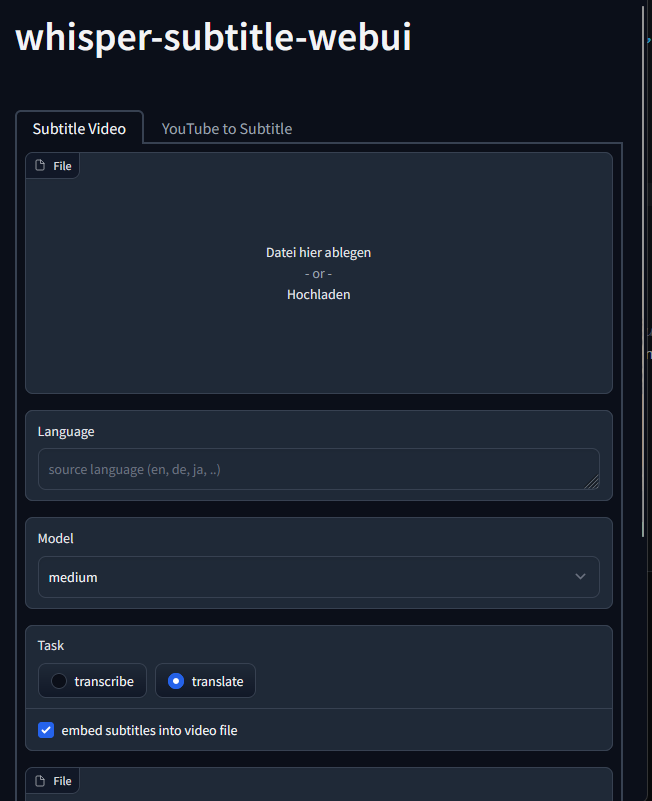
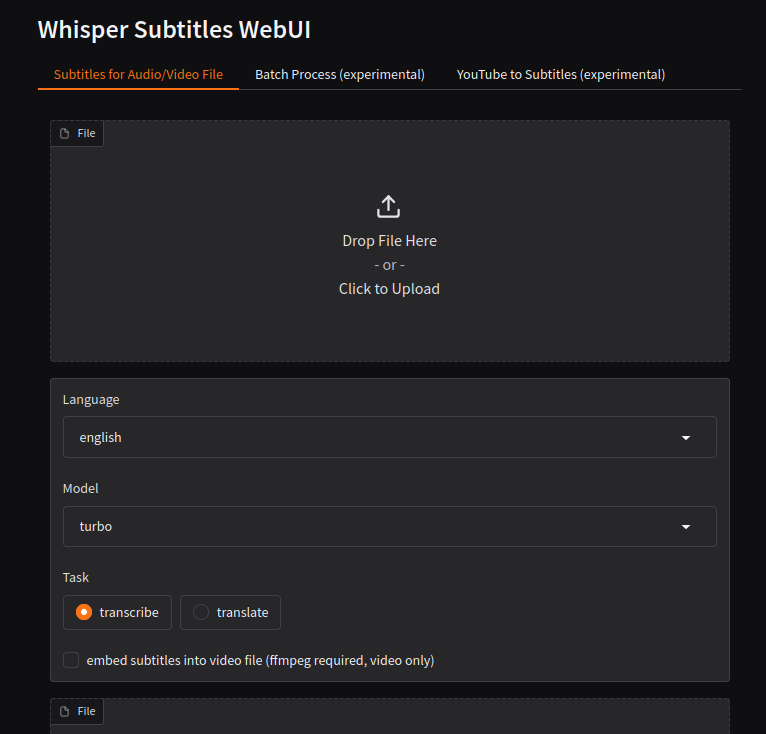
renamed some labels

diff --git a/server.py b/server.py
@@ -82,8 +82,8 @@ def batch_transcribe(files, language, model, task, addSrtToVideo):
 
 
 with gr.Blocks() as app:
-    gr.Markdown("# whisper-subtitles-webui")
-    with gr.Tab("Subtitle Video"):
+    gr.Markdown("# Whisper Subtitles WebUI")
+    with gr.Tab("Subtitles for Audio/Video File"):
         st_file = gr.File()
         st_lang = gr.Dropdown(
             label="Language",
@@ -92,10 +92,10 @@ with gr.Blocks() as app:
         )
         st_model = gr.Dropdown(MODELS, label="Model", value="tiny")
         st_task = gr.Radio(["transcribe", "translate"], label="Task", value="transcribe")
-        st_embed = gr.Checkbox(label="embed subtitles into video file (ffmpeg required)")
+        st_embed = gr.Checkbox(label="embed subtitles into video file (ffmpeg required, video only)")
         st_file_out = gr.File()
         st_start_button = gr.Button("Run", variant="primary")
-    with gr.Tab("Batch Process Videos"):
+    with gr.Tab("Batch Process (experimental)"):
         gr.Markdown("Drop multiple video files to transcribe each file")
         batch_files = gr.File(label="Video Files", file_count="multiple")
         batch_lang = gr.Dropdown(
@@ -105,10 +105,10 @@ with gr.Blocks() as app:
         )
         batch_model = gr.Dropdown(MODELS, label="Model", value="tiny")
         batch_task = gr.Radio(["transcribe", "translate"], label="Task", value="transcribe")
-        batch_embed = gr.Checkbox(label="embed subtitles into video file (ffmpeg required)")
+        batch_embed = gr.Checkbox(label="embed subtitles into video file (ffmpeg required, video only)")
         batch_output = gr.File()
         batch_button = gr.Button("Process Batch", variant="primary")
-    with gr.Tab("YouTube to Subtitle (experimental)"):
+    with gr.Tab("YouTube to Subtitles (experimental)"):
         gr.Markdown(">try to update yt-dlp if downloads don't work")
         yt_url = gr.Textbox(label="YouTube URL", placeholder="YouTube URL")
         yt_quick = gr.Checkbox(label="Quick settings", value=True, interactive=False)
@@ -119,7 +119,7 @@ with gr.Blocks() as app:
         )
         yt_model = gr.Dropdown(MODELS, label="Model", value="tiny")
         yt_task = gr.Radio(["transcribe", "translate"], label="Task", value="transcribe")
-        yt_embed = gr.Checkbox(label="embed subtitles into video file (ffmpeg required)")
+        yt_embed = gr.Checkbox(label="embed subtitles into video file (ffmpeg required, video only)")
         yt_file_out = gr.File()
         yt_start_button = gr.Button("Download and Run", variant="primary")
 

diff --git a/README.md b/README.md
@@ -2,6 +2,8 @@
 
 A gradio frontend for generating transcribed or translated subtitles for videos using OpenAI Whisper locally.
 
+![](img/1.png)
+
 # Install
 
 This has been tested with Python 3.12
@@ -57,8 +59,6 @@ If the output says `gpu available: False` [you might need to pip install a diffe
 # Why
 
 I just wanted a nice frontend where you can just drop a video or url and it will spit out subs. Whisper is amazing but I haven't found that many implementations, especially ones that can be run locally.
-
-![](img/1.png)
 
 # Privacy
 
